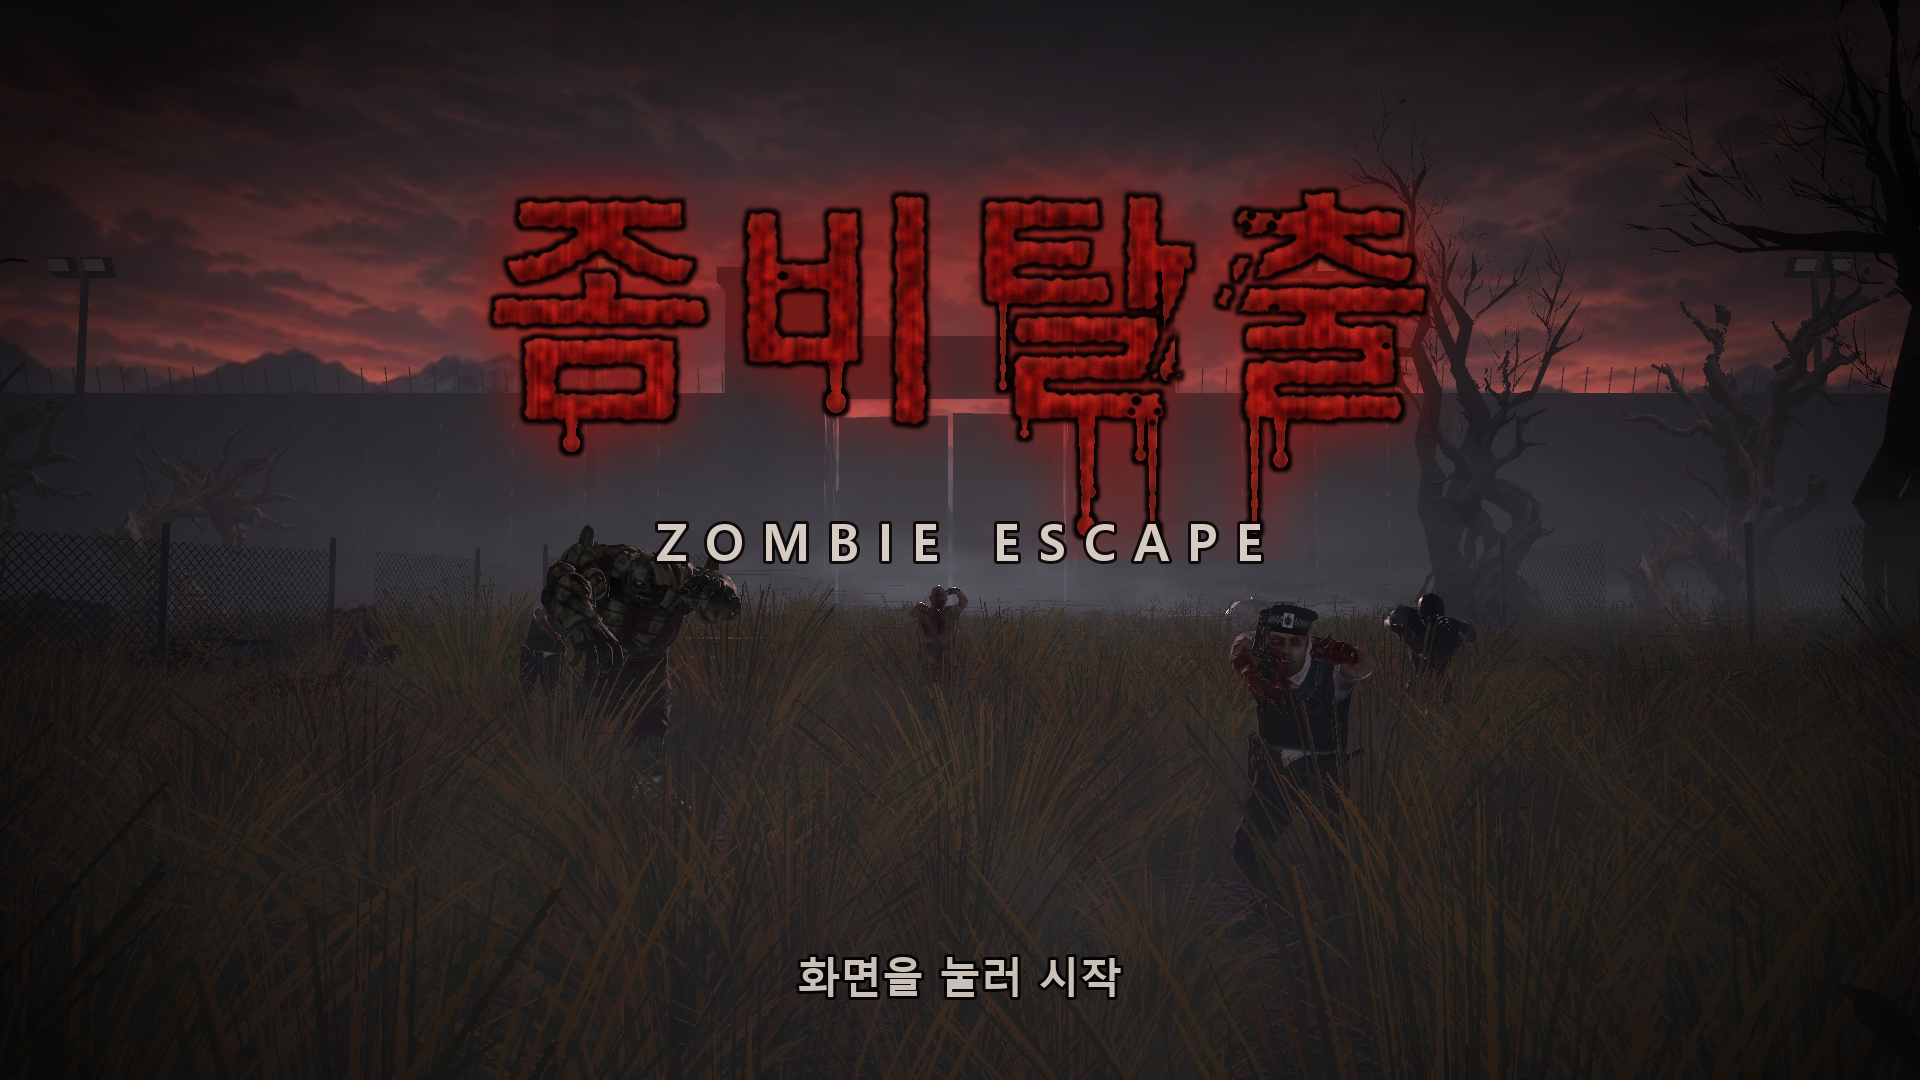
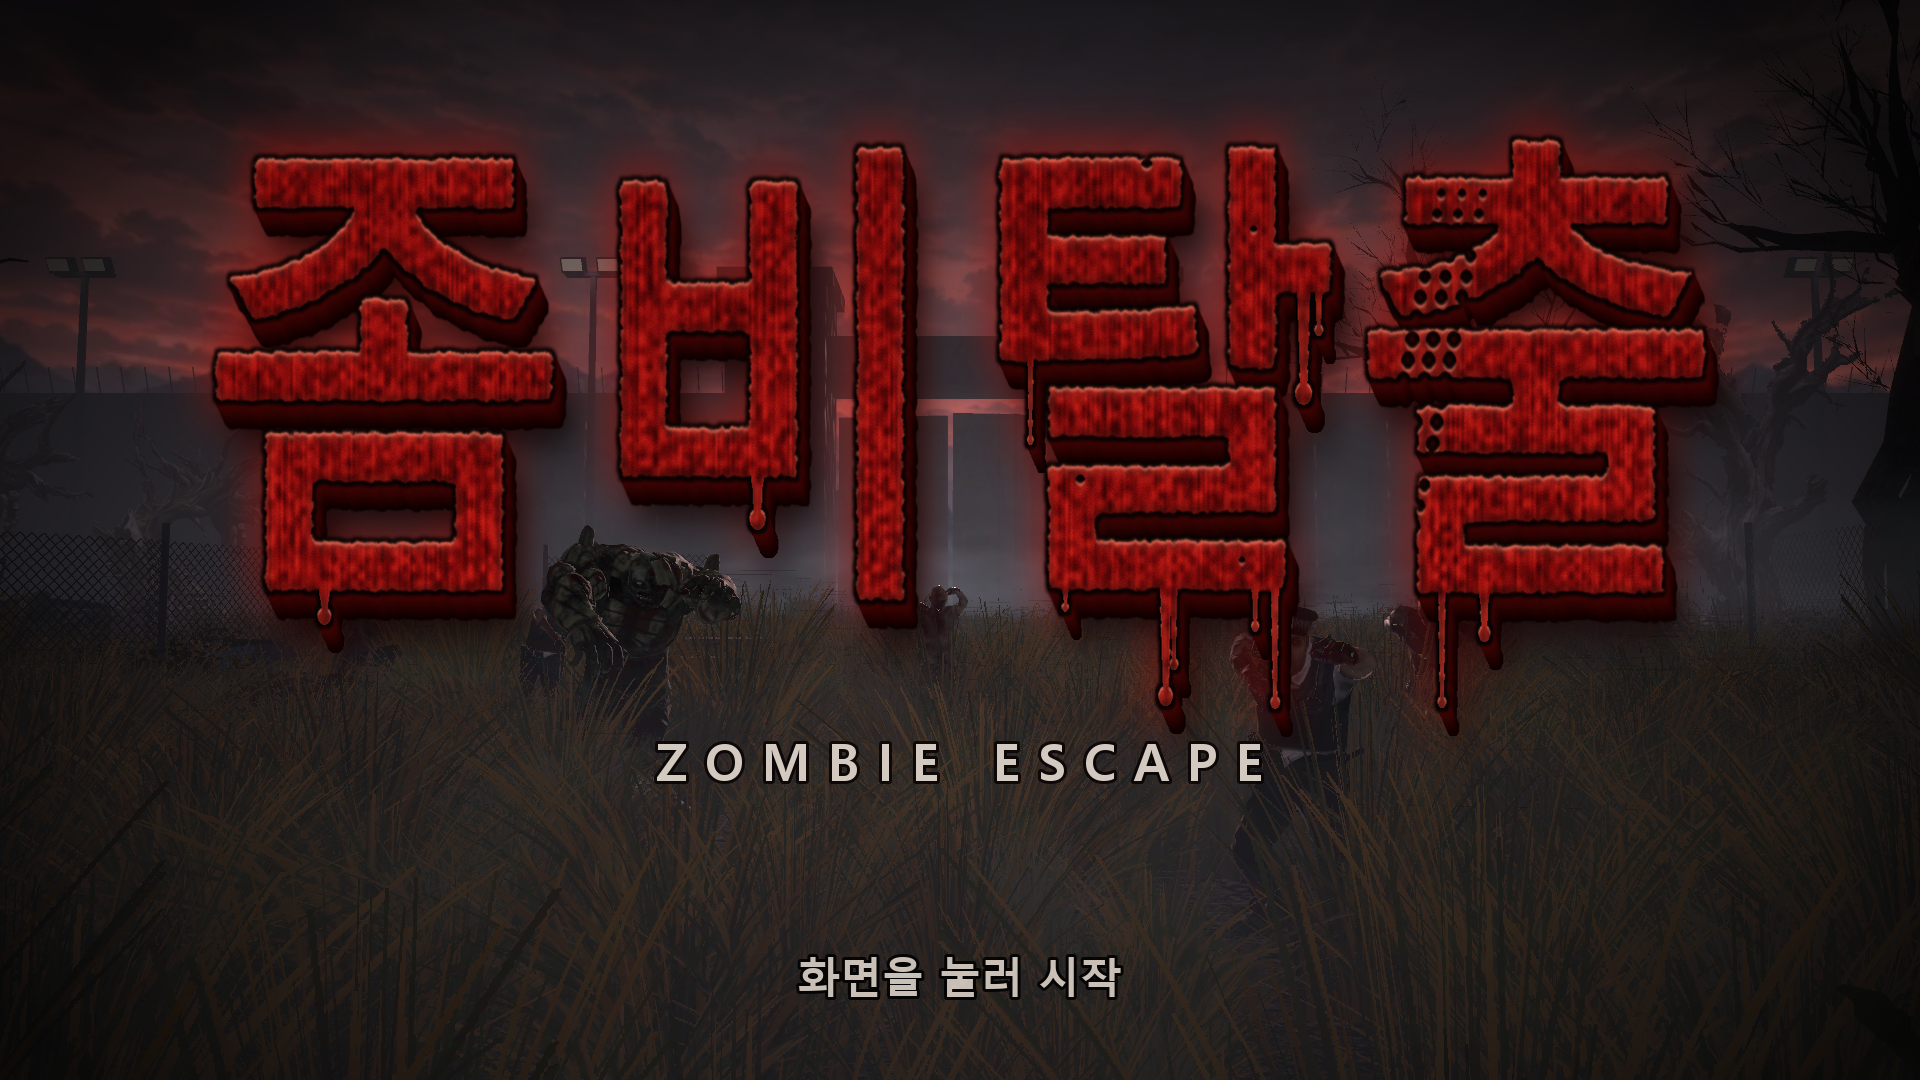
feat: 타이틀 "좀비탈출" 글자 2배 크게 + 입체(두께·바닥 그림자·윗모서리 빛)
- 글꼴 240 → 480, 폭이 화면을 넘어 가로만 80% 로 눌러 맞춤
- title_layer(depth=): 글자를 오른쪽 아래로 26칸 밀어 겹친 검붉은 두께 + 흐린 바닥 그림자 + 앞면 윗가장자리 빛
- 로그인·가입 화면 작은 로고는 그대로 (depth=0)

Changed region(s): [[0.0938, 0.0917, 0.9062, 0.7333]]

diff --git a/art/title/make_title.py b/art/title/make_title.py
@@ -97,7 +97,8 @@ def blood_fill(size, seed):
     return Image.fromarray(np.clip(rgb, 0, 255).astype("uint8"), "RGB")
 
 
-def title_layer(size, text, font, seed):
+def title_layer(size, text, font, seed, depth=0):
+    """depth > 0 이면 글자를 뒤쪽 아래로 밀어낸 두께(입체)를 깐다."""
     m, bbox = rough_mask(size, text, font, seed)
     m = drips(m, bbox, seed + 1)
     m = scratches(m, bbox, seed + 2)
@@ -117,7 +118,26 @@ def title_layer(size, text, font, seed):
     out = Image.new("RGBA", size, (0, 0, 0, 0))
     g = Image.new("RGBA", size, (200, 10, 0, 255)); g.putalpha(glow.point(lambda v: v * 0.55))
     e = Image.new("RGBA", size, (8, 2, 2, 255)); e.putalpha(edge)
-    for layer in (g, e, fill):
+    layers = [g]
+    if depth:
+        # 입체: 글자 모양을 오른쪽 아래로 한 칸씩 밀며 겹쳐 두께를 만든다 (앞쪽은 검붉게, 뒤쪽은 거의 검게)
+        solid = m.filter(ImageFilter.MaxFilter(5))
+        for i in range(depth, 0, -1):
+            k = i / depth
+            col = (int(70 * (1 - k) + 12 * k), int(4 * (1 - k)), int(4 * (1 - k)), 255)
+            sh = Image.new("RGBA", size, col)
+            sh.putalpha(ImageChops.offset(solid, int(round(i * 0.55)), int(round(i * 1.0))))
+            layers.append(sh)
+        # 바닥에 떨어지는 그림자
+        drop = ImageChops.offset(solid, int(depth * 0.9), int(depth * 1.6)).filter(ImageFilter.GaussianBlur(18))
+        ds = Image.new("RGBA", size, (0, 0, 0, 255)); ds.putalpha(drop.point(lambda v: v * 0.75))
+        layers.insert(1, ds)
+        # 앞면 윗가장자리에 빛 (모서리가 깎인 느낌)
+        bev = ImageChops.subtract(m, ImageChops.offset(m, 0, 3)).filter(ImageFilter.GaussianBlur(1))
+        bv = Image.new("RGBA", size, (255, 150, 120, 255)); bv.putalpha(bev.point(lambda v: v * 0.6))
+        fill = Image.alpha_composite(fill, bv)
+    layers += [e, fill]
+    for layer in layers:
         out = Image.alpha_composite(out, layer)
     return out
 
@@ -138,15 +158,18 @@ def main():
     arr[..., 0] *= 1.06
     bg = Image.fromarray(np.clip(arr, 0, 255).astype("uint8"), "RGBA")
 
-    font = ImageFont.truetype(FONT, 240)
-    t = title_layer((W, 520), TITLE, font, seed=13)
-    bg.alpha_composite(t, (0, 40))
+    # 제목: 글자 크기 2배(240 → 480). 그대로면 폭이 화면을 넘어서 가로만 80% 로 눌러 맞춘다. 두께(입체) 26 칸
+    font = ImageFont.truetype(FONT, 480)
+    big_w = int(W / 0.8)
+    t = title_layer((big_w, 900), TITLE, font, seed=13, depth=26)
+    t = t.resize((W, 900), Image.LANCZOS)
+    bg.alpha_composite(t, (0, -95))
     # 부제 (영문) — 작고 가는 흰 글씨, 살짝 긁힘
     sub = Image.new("RGBA", (W, 120), (0, 0, 0, 0))
     sd = ImageDraw.Draw(sub)
     sfont = ImageFont.truetype(FONT, 50)
     sd.text((W // 2, 60), " ".join(SUB), font=sfont, fill=(225, 215, 205, 235), anchor="mm", stroke_width=3, stroke_fill=(10, 5, 5, 230))
-    bg.alpha_composite(sub, (0, 480))
+    bg.alpha_composite(sub, (0, 700))
     # 아래: "화면을 눌러 시작" 자리 표시 (C 가 실제 버튼으로 바꾼다)
     hint = Image.new("RGBA", (W, 90), (0, 0, 0, 0))
     ImageDraw.Draw(hint).text((W // 2, 45), "화면을 눌러 시작", font=ImageFont.truetype(FONT, 42), fill=(235, 225, 215, 210),

diff --git a/art/title/README.md b/art/title/README.md
@@ -8,7 +8,7 @@
 | `title_zombie_escape_logo.png` | 제목 글자만 (투명 배경) — C 가 타이틀 화면에 배경·버튼과 따로 올려 쓰도록 |
 
 - 배경: `godot/scenes/stage/title_art.tscn` 으로 **팀 스테이지 맵의 탈출 지점(요새 정문·투광등)** 앞에서 좀비 5마리가 다가오는 장면을 찍었다
-- 제목: 굵은 한글 글꼴 → 가장자리를 갉아먹듯 거칠게 → 핏물 흘러내림 → 손톱 긁힘 → 녹슨 핏빛 질감 → 어두운 테두리·붉은 빛 (`make_title.py`)
+- 제목: 굵은 한글 글꼴(480, 가로 80% 로 눌러 화면에 맞춤) → 두께(입체)·바닥 그림자 → 가장자리를 갉아먹듯 거칠게 → 핏물 흘러내림 → 손톱 긁힘 → 녹슨 핏빛 질감 → 어두운 테두리·붉은 빛 (`make_title.py`)
 - 게임 이름 "좀비탈출" 은 사용자가 정했다 (PRD 는 아직 "가칭 · 정식 게임명 미정" — 팀 확인 필요)
 
 ## 로그인·회원가입 화면 시안 (PRD 4.11, 화면 구현은 C)
